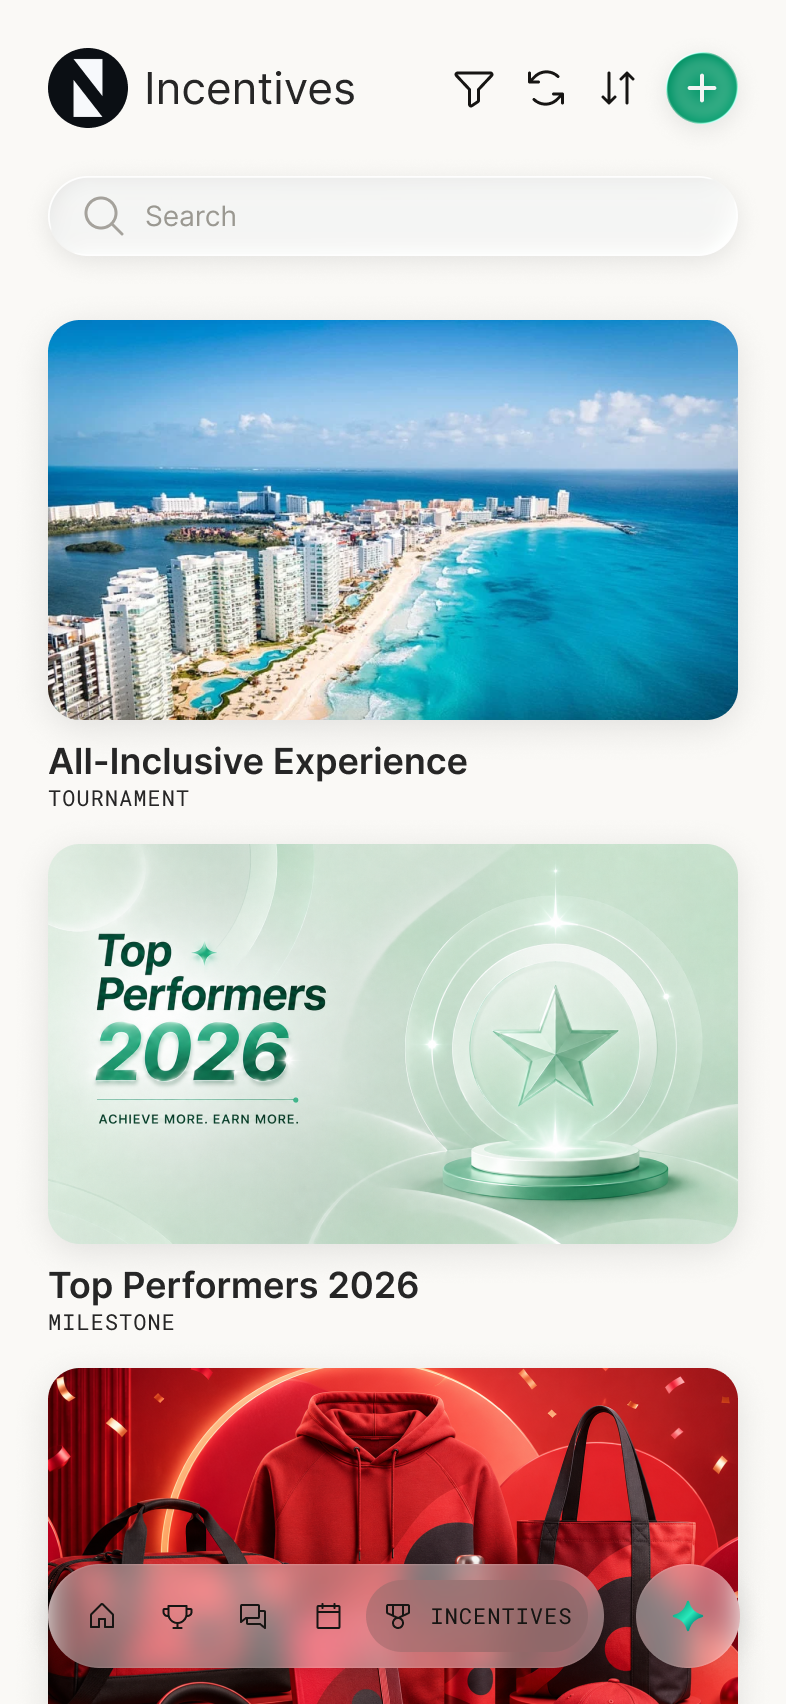
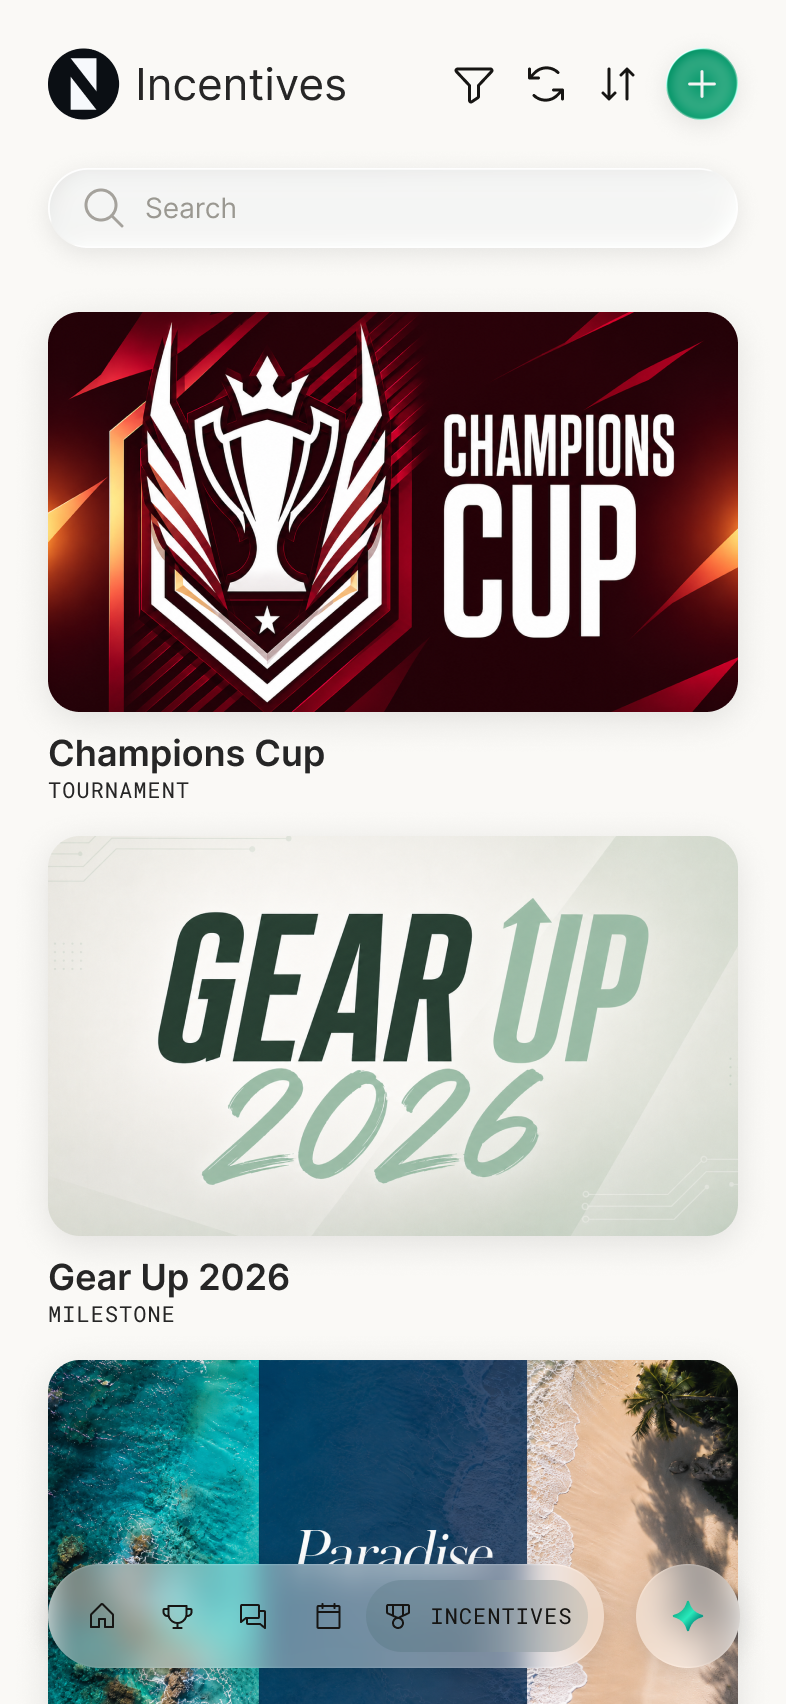
feat(system): refresh Competitions & Incentives shots + iPad desktop variants
Swap the three phone captures (list/milestone/bracket) for the updated UI
and add iPad captures shown at the desktop breakpoint. CompetitionsMockup
now switches frame (phone vs iPad), captures, and per-form-factor tap
targets — the iPad list is a two-column grid so the card taps differ.

diff --git a/src/app/components/CompetitionsMockup.tsx b/src/app/components/CompetitionsMockup.tsx
@@ -3,11 +3,12 @@
 import React, { useEffect, useRef, useState } from "react";
 import { motion, AnimatePresence } from "motion/react";
 import { ImageWithFallback } from "./figma/ImageWithFallback";
+import { MEDIA } from "../lib/breakpoints";
 
 /**
  * Auto-playing, looping walkthrough of the Competitions & Incentives feature,
- * framed in a phone. It threads three real app screens together as one screen
- * with iOS-style push navigation:
+ * framed in a phone (mobile) or iPad (desktop). It threads three real app
+ * screens together as one screen with iOS-style push navigation:
  *
  *   Incentives list → (tap the Milestone card) → Milestone detail
  *     → (tap back) → list → (tap the Tournament card) → Bracket
@@ -15,15 +16,24 @@ import { ImageWithFallback } from "./figma/ImageWithFallback";
  *
  * All three screens are static captures; the motion is the tap pulse + the
  * push/pop transition between them. Tap targets are positioned as fractions of
- * the capture (the frame is locked to its 393×852 aspect), so a pulse lands on
- * the same spot at any rendered size. The card centers were measured directly
- * off the list capture.
+ * the capture, so a pulse lands on the same spot at any rendered size. The
+ * card centers were measured directly off each list capture — and because the
+ * iPad list is a two-column grid (tournament top-left, milestone top-right)
+ * rather than the phone's single stacked column, the targets differ per form
+ * factor.
  */
 
 const SHOTS = {
-  list: "/system/incentives-list.png",
-  milestone: "/system/incentives-milestone.png",
-  bracket: "/system/incentives-bracket.png",
+  phone: {
+    list: "/system/incentives-list.png",
+    milestone: "/system/incentives-milestone.png",
+    bracket: "/system/incentives-bracket.png",
+  },
+  ipad: {
+    list: "/system/incentives-list-ipad.png",
+    milestone: "/system/incentives-milestone-ipad.png",
+    bracket: "/system/incentives-bracket-ipad.png",
+  },
 } as const;
 
 const GREEN = "#0DA071";
@@ -32,12 +42,33 @@ type Screen = "list" | "milestone" | "bracket";
 type Tap = "milestone-card" | "tournament-card" | "back" | null;
 
 // Tap targets as fractions of the screen: the two list cards (centered on each
-// card's artwork) + the detail back button (top-left).
+// card's artwork) + the detail back button (top-left). Phone stacks the cards
+// in one column; iPad lays them out as a two-column grid on the first row.
 const TAP = {
-  "tournament-card": { x: 0.5, y: 0.305 },
-  "milestone-card": { x: 0.5, y: 0.612 },
-  back: { x: 0.1, y: 0.05 },
+  phone: {
+    "tournament-card": { x: 0.5, y: 0.305 },
+    "milestone-card": { x: 0.5, y: 0.612 },
+    back: { x: 0.1, y: 0.05 },
+  },
+  ipad: {
+    "tournament-card": { x: 0.255, y: 0.225 },
+    "milestone-card": { x: 0.745, y: 0.225 },
+    back: { x: 0.05, y: 0.04 },
+  },
 } as const;
+
+/** Tracks whether the viewport is at the desktop breakpoint. */
+function useIsDesktop() {
+  const [isDesktop, setIsDesktop] = useState(false);
+  useEffect(() => {
+    const mq = window.matchMedia(MEDIA.desktop);
+    const update = () => setIsDesktop(mq.matches);
+    update();
+    mq.addEventListener("change", update);
+    return () => mq.removeEventListener("change", update);
+  }, []);
+  return isDesktop;
+}
 
 /** Expanding tap ripple shown at a screen-fraction position before a nav. */
 function TapPulse({ x, y }: { x: number; y: number }) {
@@ -63,9 +94,15 @@ function TapPulse({ x, y }: { x: number; y: number }) {
 
 export function CompetitionsMockup() {
   const hostRef = useRef<HTMLDivElement>(null);
+  const isDesktop = useIsDesktop();
   const [inView, setInView] = useState(false);
   const [screen, setScreen] = useState<Screen>("list");
   const [tap, setTap] = useState<Tap>(null);
+
+  // On desktop, frame the iPad captures in a roomier tablet shell; on mobile
+  // keep the phone. Each form factor has its own captures + tap targets.
+  const shots = isDesktop ? SHOTS.ipad : SHOTS.phone;
+  const taps = isDesktop ? TAP.ipad : TAP.phone;
 
   // Run the loop only while on screen.
   useEffect(() => {
@@ -150,18 +187,22 @@ export function CompetitionsMockup() {
   }, [inView]);
 
   const detail = screen === "list" ? null : screen;
+  const frame = isDesktop
+    ? "max-w-[440px] aspect-[1668/2388] rounded-[28px]"
+    : "max-w-[300px] aspect-[393/852] rounded-[44px]";
+  const sizes = isDesktop ? "440px" : "(max-width: 768px) 90vw, 300px";
 
   return (
     <div className="flex justify-center">
       <div
         ref={hostRef}
-        className="relative w-full max-w-[300px] aspect-[393/852] overflow-hidden rounded-[44px] bg-white"
+        className={`relative w-full overflow-hidden bg-white ${frame}`}
       >
         {/* Root: the incentives list. Always mounted; detail screens push over it. */}
         <ImageWithFallback
-          src={SHOTS.list}
+          src={shots.list}
           alt="Competitions & incentives list"
-          sizes="(max-width: 768px) 90vw, 300px"
+          sizes={sizes}
           className="absolute inset-0 h-full w-full object-cover object-top"
         />
 
@@ -177,9 +218,9 @@ export function CompetitionsMockup() {
               transition={{ duration: 0.42, ease: [0.32, 0.72, 0, 1] }}
             >
               <ImageWithFallback
-                src={SHOTS[detail]}
+                src={shots[detail]}
                 alt={detail === "milestone" ? "Milestone incentive detail" : "Tournament bracket"}
-                sizes="(max-width: 768px) 90vw, 300px"
+                sizes={sizes}
                 className="absolute inset-0 h-full w-full object-cover object-top"
               />
             </motion.div>
@@ -187,10 +228,14 @@ export function CompetitionsMockup() {
         </AnimatePresence>
 
         {/* Tap pulse, positioned per target. Rendered last so it sits on top. */}
-        {tap && <TapPulse x={TAP[tap].x} y={TAP[tap].y} />}
+        {tap && <TapPulse x={taps[tap].x} y={taps[tap].y} />}
 
         {/* Device edge — matches the other previews. */}
-        <div className="pointer-events-none absolute inset-0 z-40 rounded-[44px] border border-black/12 dark:border-white/15" />
+        <div
+          className={`pointer-events-none absolute inset-0 z-40 border border-black/12 dark:border-white/15 ${
+            isDesktop ? "rounded-[28px]" : "rounded-[44px]"
+          }`}
+        />
       </div>
     </div>
   );